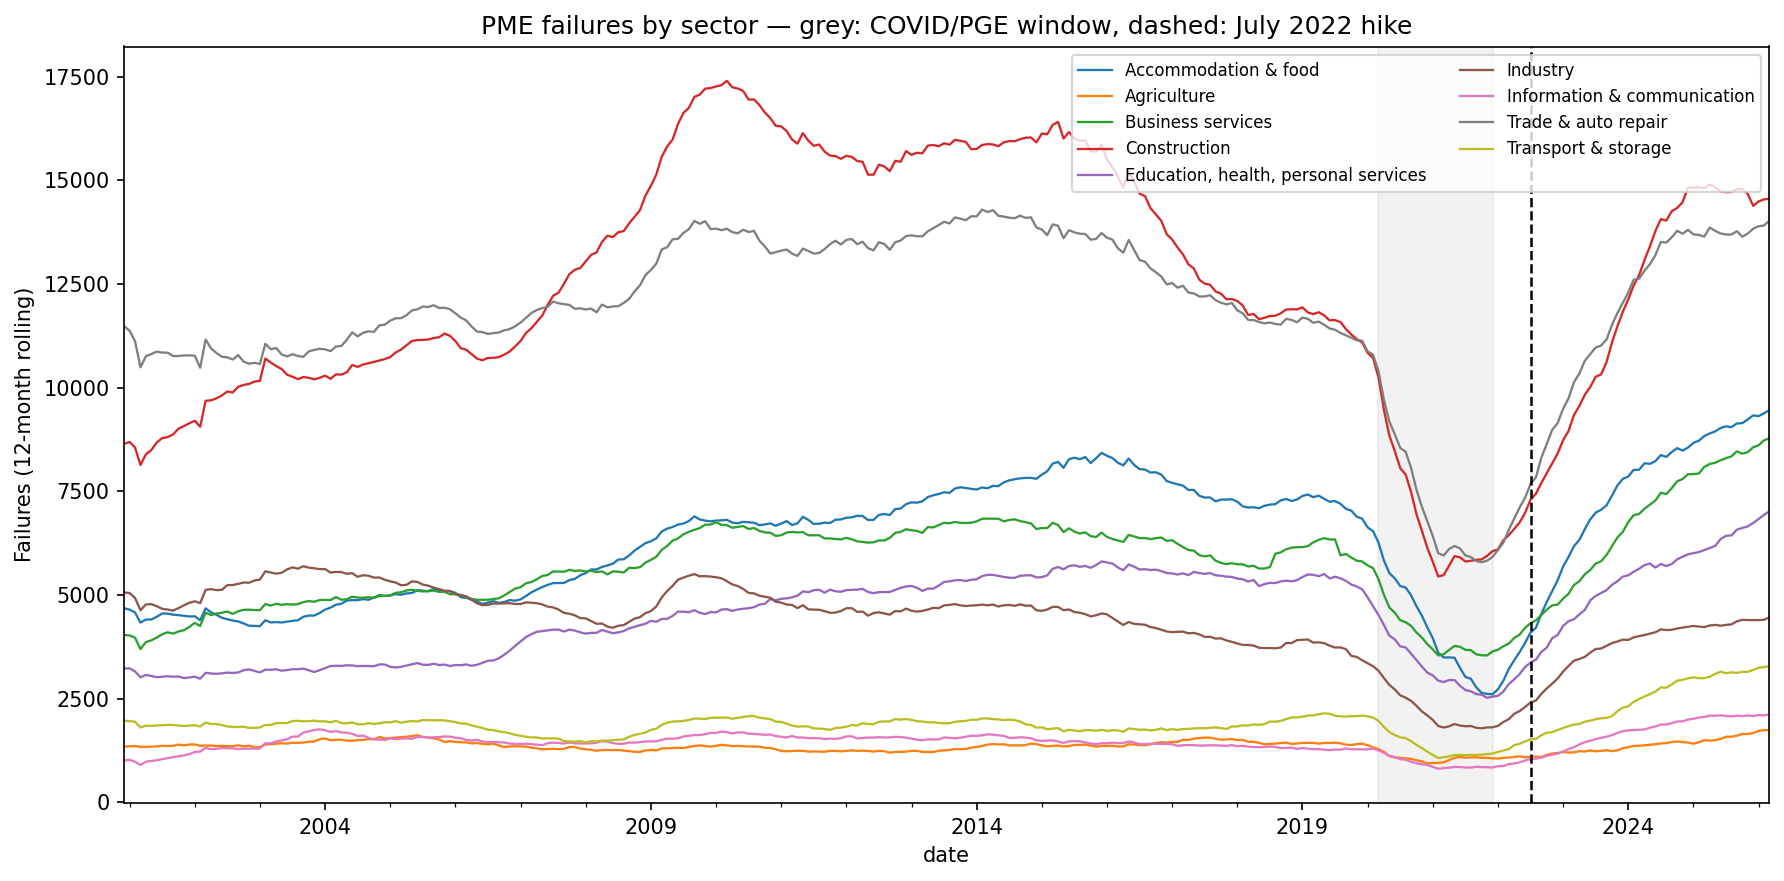
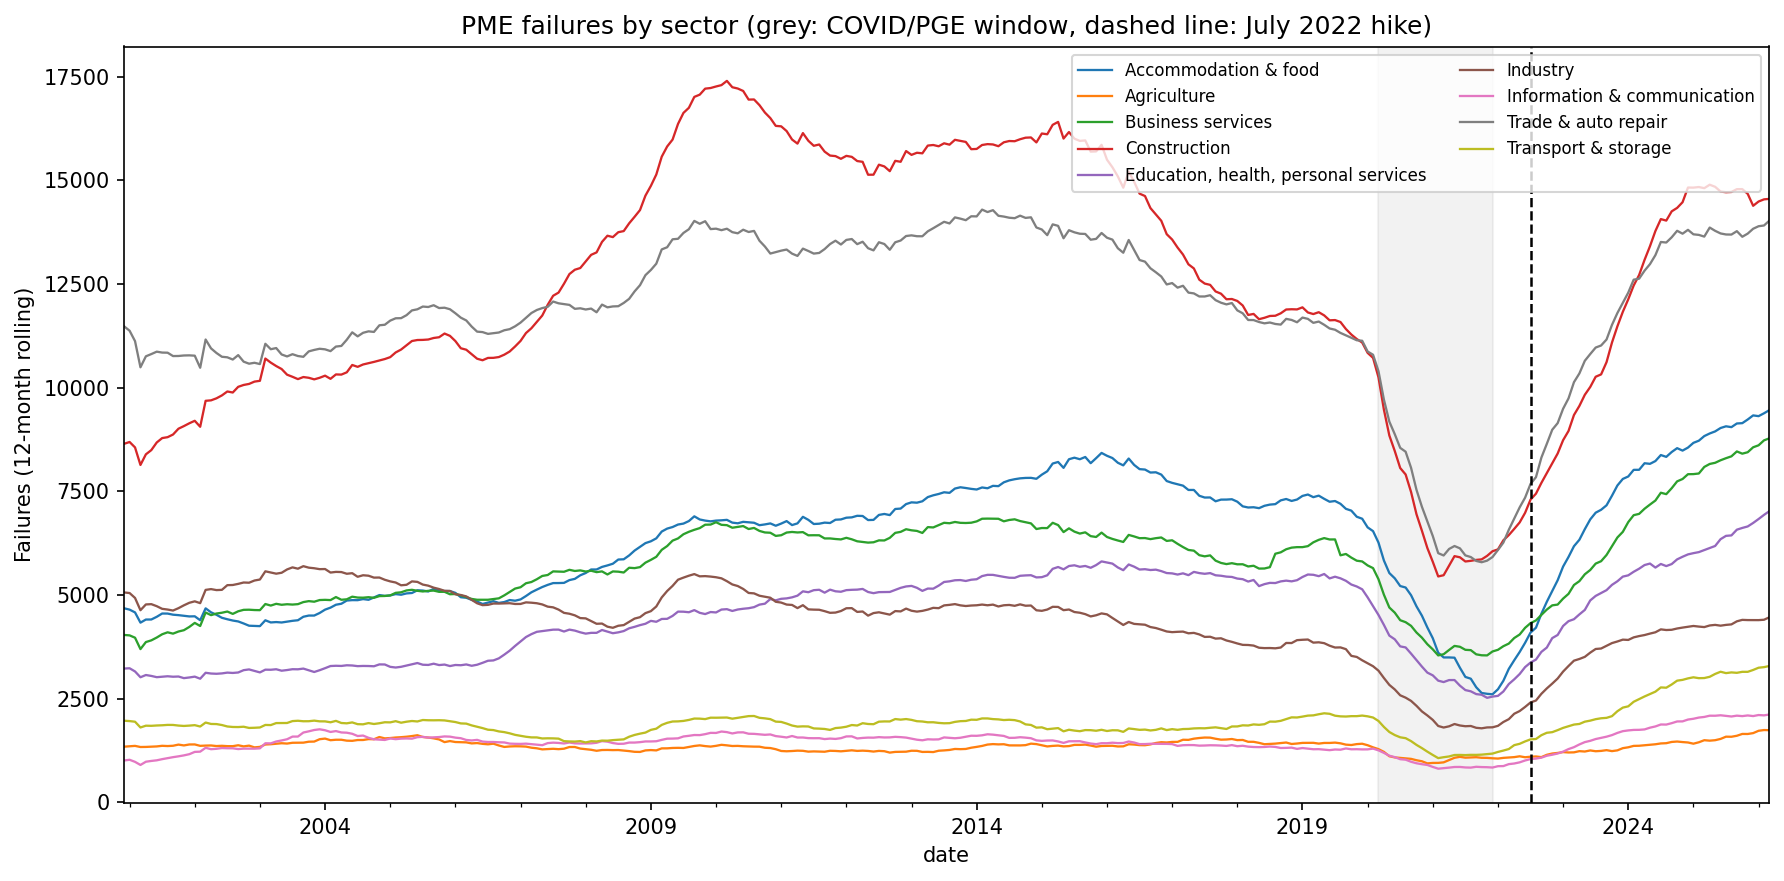
Fix punctuation in titles and captions

Changed region(s): [[0.2466, 0.0, 0.8016, 0.0613]]

diff --git a/src/cleaning.py b/src/cleaning.py
@@ -42,8 +42,8 @@ def bank_credit_dependence(debt_structure: pd.DataFrame) -> pd.Series:
     """
     Share of bank debt in total financial debt per analysis sector, averaged over
     DEPENDENCE_WINDOW. For sectors that map to two FIBEN sub-sectors (industry,
-    personal services) the sub-sector ratios are averaged (simple mean — an
-    approximation, since debt weights are not available at this granularity).
+    personal services) the sub-sector ratios are averaged (simple mean, an
+    approximation since debt weights are not available at this granularity).
 
     Parameters
     ----------

diff --git a/src/data_loader.py b/src/data_loader.py
@@ -79,7 +79,7 @@ def load_sector_debt_structure() -> pd.DataFrame:
     """
     Annual FIBEN balance-sheet ratios by NAF sector (France, all firm sizes).
 
-    Keeps BE — the share of bank debt in total financial debt — which defines the
+    Keeps BE, the share of bank debt in total financial debt, which defines the
     treatment group. Returns a tidy frame: year, sector, ratio_code, value.
     """
     df = _read_bdf(BDF_DIR / "sector_debt_structure.csv")

diff --git a/README.md b/README.md
@@ -1,4 +1,4 @@
-# ECB Rate Shock & SME Failures — A Causal Study of French Firms
+# ECB Rate Shock and SME Failures: A Causal Study of French Firms
 
 A difference-in-differences study of whether the 2022 ECB rate hikes accelerated
 failures among French SMEs in bank-credit-dependent sectors and in economically